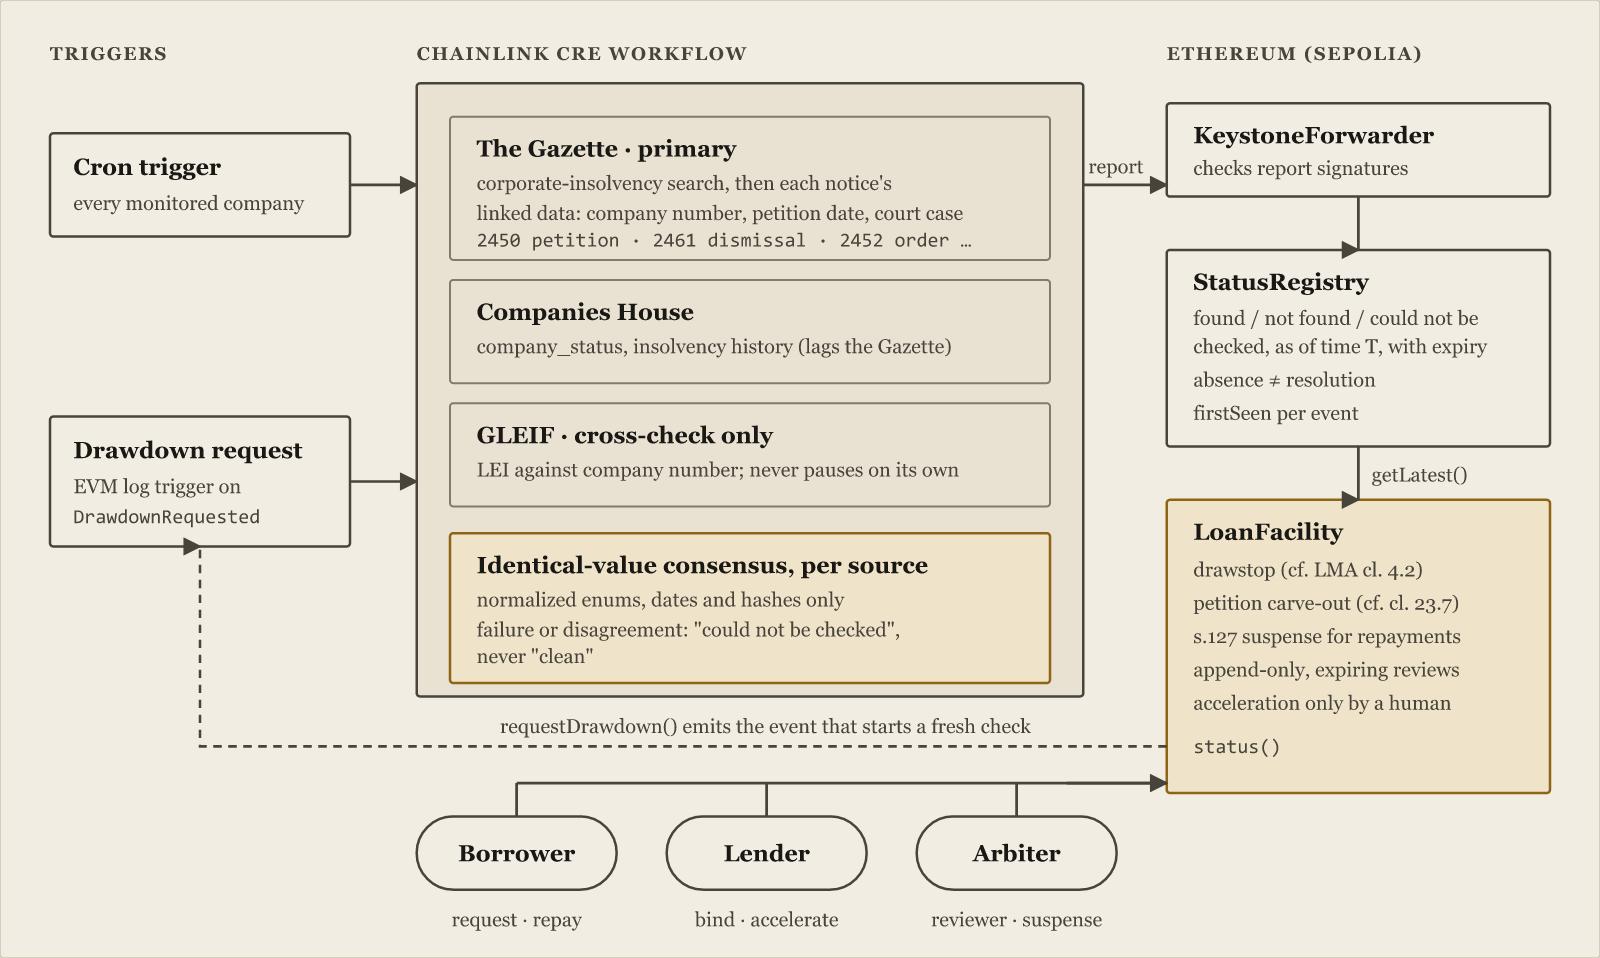
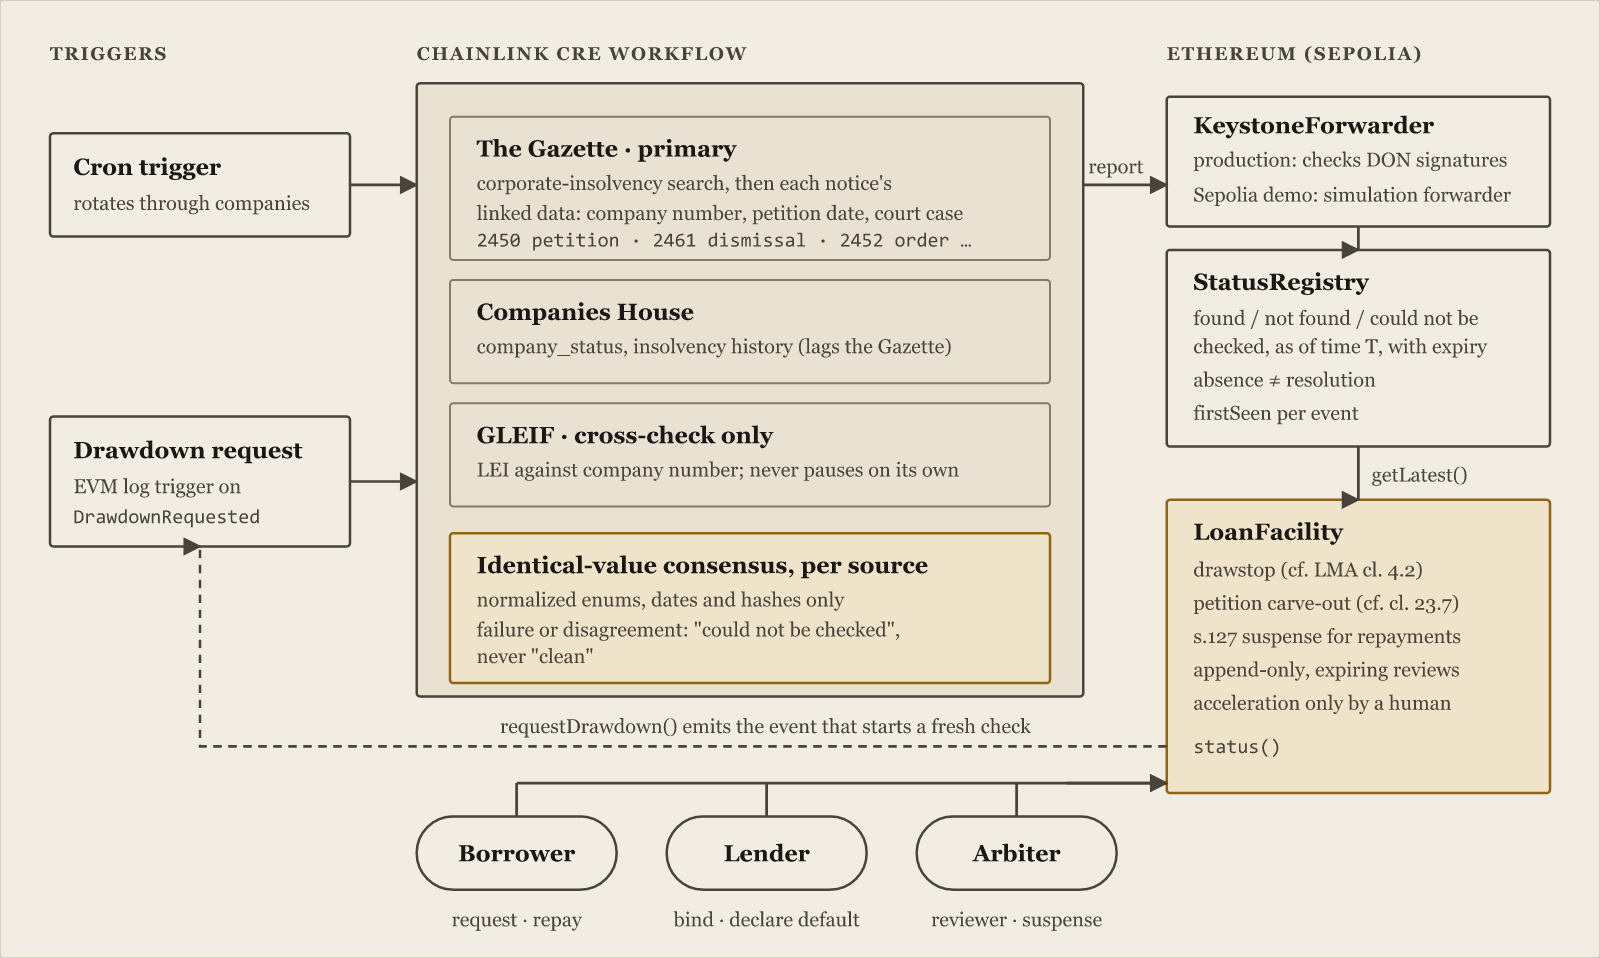
Fact-check corrections: testnet forwarder, cron rotation, mutation order, scope
An independent check found overstatements. Details, site and architecture
figure now say that the Sepolia simulation forwarder does not verify
signatures (production KeystoneForwarder does), that cron rotates through
companies, that 2 of the first 4 planted bugs slipped past the first fuzzer,
that the backtest is what a Gazette check would have shown, that the
winding-up is deemed to start at presentation, the 397/401 CE-File basis,
and the closest prior CRE projects (Covenant Sentinel, SentinelFi).

Changed region(s): [[0.7188, 0.0908, 0.9688, 0.2422], [0.4062, 0.9384, 0.5312, 0.9687], [0.0625, 0.2119, 0.1875, 0.2422]]

diff --git a/docs/index.html b/docs/index.html
@@ -15,7 +15,7 @@
 <link rel="preconnect" href="https://fonts.googleapis.com">
 <link rel="preconnect" href="https://fonts.gstatic.com" crossorigin>
 <link rel="stylesheet" href="https://fonts.googleapis.com/css2?family=IBM+Plex+Mono:wght@400;500&family=Newsreader:ital,opsz,wght@0,6..72,300..700;1,6..72,300..700&display=swap">
-<link rel="stylesheet" href="site/style.css?v=10">
+<link rel="stylesheet" href="site/style.css?v=11">
 </head>
 <body>
 
@@ -244,7 +244,7 @@
 		<div class="box">
 			<span class="kind caps">Triggers</span>
 			<h4>Schedule and request</h4>
-			<ul><li>Cron: every registered company</li><li>EVM log: a fresh check on every drawdown request</li></ul>
+			<ul><li>Cron: rotates through registered companies</li><li>EVM log: a fresh check on every drawdown request</li></ul>
 		</div>
 		<div class="arrow" aria-hidden="true"><svg viewBox="0 0 30 12"><path d="M0 6 H28 M23 1 L28 6 L23 11"/></svg></div>
 		<div class="box key">
@@ -329,7 +329,7 @@
 	<div class="tryit reveal" id="try" aria-labelledby="try-title">
 		<div class="try-head">
 			<h4 id="try-title">Try to break it</h4>
-			<p>Each button sends a real <span class="mono">eth_call</span> to the contracts deployed on Ethereum Sepolia: the network runs the contract code and returns what it would do. No wallet, nothing is signed or spent. You act as a random address, <span class="mono" id="try-you">…</span>.</p>
+			<p>Each button sends a real <span class="mono">eth_call</span> to the contracts deployed on Ethereum Sepolia: the network runs the contract code and returns what it would do. No wallet, nothing is signed or spent. Each attempt targets the contract directly; on testnet the simulation forwarder itself does not check signatures (see §7). You act as a random address, <span class="mono" id="try-you">…</span>.</p>
 		</div>
 		<ol class="attempts">
 			<li><button type="button" data-attempt="report">Write a status into the registry yourself</button><div class="out" aria-live="polite"></div></li>
@@ -337,7 +337,7 @@
 			<li><button type="button" data-attempt="arbiter">Do it as the arbiter instead</button><div class="out" aria-live="polite"></div></li>
 			<li><button type="button" data-attempt="release">Release the held money to the lender now</button><div class="out" aria-live="polite"></div></li>
 		</ol>
-		<p class="try-foot">StatusRegistry <span class="mono">0x1AE2…1245</span> and LoanFacility <span class="mono">0x9116…0ab0</span>, source-verified on Sourcify. The arbiter attempt borrows the arbiter's real address, which an <span class="mono">eth_call</span> allows without its key. <a href="https://github.com/ZhenYan1214/Drawstop/blob/main/docs/site/try.js">How each call is built ↗</a></p>
+		<p class="try-foot">StatusRegistry <span class="mono">0x1AE2…1245</span> and LoanFacility <span class="mono">0x9116…0ab0</span>, source-verified on Sourcify. Suspense is empty today (the 2,000 went to the Official Receiver stand-in on 22 October); the refusals do not depend on the balance. The arbiter attempt borrows the arbiter's real address, which an <span class="mono">eth_call</span> allows without its key. <a href="https://github.com/ZhenYan1214/Drawstop/blob/main/docs/site/try.js">How each call is built ↗</a></p>
 	</div>
 </section>
 
@@ -352,7 +352,7 @@
 	<ul class="checks reveal">
 		<li><div class="res num">42<small class="caps">pass</small></div><div><h4>Unit tests</h4><p>One scenario per test, including the real AMS timeline and nine issues found in an adversarial audit.</p></div></li>
 		<li><div class="res num">128k<small class="caps">calls</small></div><div><h4>Invariant fuzzing</h4><p>Every action in random order by every role, five properties checked after each call, against an independent reference model.</p></div></li>
-		<li><div class="res num">5 / 5<small class="caps">caught</small></div><div><h4>Mutation testing</h4><p>Five bugs planted to test the fuzzer. Two were missed at first, which is why the final suite looks the way it does.</p></div></li>
+		<li><div class="res num">5 / 5<small class="caps">caught</small></div><div><h4>Mutation testing</h4><p>Five bugs planted to test the fuzzer. Two of the first four slipped past it, which is why the final suite looks the way it does.</p></div></li>
 		<li><div class="res num">3 / 3<small class="caps">match</small></div><div><h4>Deployed = source</h4><p>Sourcify recompiled the repository and matched the creation and runtime bytecode of all three contracts.</p></div></li>
 		<li><div class="res num">24<small class="caps">pass</small></div><div><h4>Real responses</h4><p>Workflow parsers tested on recorded Gazette, Companies House and GLEIF responses.</p></div></li>
 		<li><div class="res num">Daily<small class="caps">forward test</small></div><div><h4>Evidence that keeps growing</h4><p>GitHub Actions records each day's newly advertised petitions and every petitioned company's Companies House status, timestamped in public. On 23 October, 184 of 197 (93%) still showed active.</p></div></li>
@@ -392,7 +392,7 @@
 			<li><b>“Not found” never rules out a petition</b> presented but not yet advertised. That is a limit of free open data, not of the law: 99% of England-and-Wales petitions sit in courts the CE-File search covers, a source that could be added.</li>
 			<li><b>A payment between presentation and advertisement cannot be stopped,</b> only surfaced afterwards.</li>
 			<li><b>The legal design is illustrative.</b> The draft facility terms flag what needs specialist advice. Not legal advice.</li>
-			<li><b>Test setup.</b> The CRE simulator runs consensus on one node; Sepolia writes go through the simulation forwarder; the registry owner is the test lender.</li>
+			<li><b>Test setup.</b> The CRE simulator runs consensus on one node. Sepolia writes go through the simulation forwarder, which does not check signatures, so anyone could push a report through it; production uses the KeystoneForwarder, which does. The registry owner is the test lender.</li>
 			<li><b>No user interviews yet.</b> Demand is argued from statute, case law, LMA structure and on-chain incidents.</li>
 			<li><b>One quarter of data, plus a two-week hold-out.</b> Predictions registered on 17 October held on all 5 checks for 409 October petitions. 12 Q3 notices were unretrievable. Corrected on 22 October to whole calendar days: the 30-day figure is 75%, not the 79% first published.</li>
 			<li><b>Mostly England and Wales.</b> 10% of the petitions concern Scottish or Northern Irish companies, whose rules differ; they are kept in, which makes the figures conservative (England and Wales only: 98% after 14 days).</li>
@@ -423,6 +423,6 @@
 
 <script src="site/data.js?v=8"></script>
 <script src="site/app.js?v=8"></script>
-<script src="site/try.js?v=1"></script>
+<script src="site/try.js?v=2"></script>
 </body>
 </html>

diff --git a/docs/dorahacks/DETAILS.md b/docs/dorahacks/DETAILS.md
@@ -2,22 +2,22 @@ Drawstop is a Chainlink CRE workflow that checks the public insolvency record ev
 
 ## At a glance
 
-- **Website, no install or wallet:** https://zhenyan1214.github.io/Drawstop/ . Try §2 (pick a grace window) and §5 (step through the 11 Sepolia transactions).
-- **Try to break it:** https://zhenyan1214.github.io/Drawstop/#try . Four buttons send real `eth_call`s to the deployed contracts, trying to forge a status or take the held money; each comes back refused with the contract's own reason.
+- **Website, no install or wallet:** https://zhenyan1214.github.io/Drawstop/ (§2: pick a grace window; §5: step through the 11 Sepolia transactions).
+- **Try to break it:** https://zhenyan1214.github.io/Drawstop/#try . Four buttons send real `eth_call`s to the deployed contracts, trying to write a status directly or move money held in suspense; each comes back refused with the contract's own reason. (On testnet the simulation forwarder itself does not check signatures; see Limits.)
 - **Video (3:40):** https://youtu.be/d3qod9UnwVs
 - **Code:** https://github.com/ZhenYan1214/Drawstop . No keys needed: `forge test` in `contracts/evm`, `bun test` in `status-monitor`.
 - **Contracts on Ethereum Sepolia,** source-verified on Sourcify: https://repo.sourcify.dev/11155111/0x1AE232515B9C011152335e68314f12926e4d1245
 - **Three transactions:**
-  - Live sources: the workflow records a winding-up order against a real company, AMS Facilities (SW) Ltd, while Companies House still shows it as active: https://sepolia.etherscan.io/tx/0xfd78a1e72de6589e2dd1dda06b23b19219d9811de464011d0d4e437e10f1743e
+  - Live sources: the workflow records a winding-up order against a real company, AMS Facilities (SW) Ltd, while Companies House still showed it as active (22 October): https://sepolia.etherscan.io/tx/0xfd78a1e72de6589e2dd1dda06b23b19219d9811de464011d0d4e437e10f1743e
   - A repayment made while a petition is pending is held in suspense: https://sepolia.etherscan.io/tx/0x11d9768f3f02f9a97e1d2956e3a319e041a02365bbb96c0a60634128c46a127d
-  - Two days after an Official Receiver stand-in is nominated, the held 2,000 goes to it: https://sepolia.etherscan.io/tx/0x92e216a23b9b57b38204073b746ee5b6a924032651fbaa921f59df0b6b50e327
-- The loan scenario uses a fictional borrower fed by a local mirror, in compressed time. Only the AMS and Tesco checks use live sources.
+  - After the two-day nomination delay, the held 2,000 goes to an Official Receiver stand-in: https://sepolia.etherscan.io/tx/0x92e216a23b9b57b38204073b746ee5b6a924032651fbaa921f59df0b6b50e327
+- The loan scenario uses a fictional borrower fed by a local mirror, in compressed time; only the AMS and Tesco checks use live sources.
 
 ## The problem
 
-In England and Wales, a winding-up starts on the day the petition is presented (Insolvency Act 1986 s.129(2)). If an order follows, the company's later payments are void unless a court validates them (s.127), even to a payee in good faith. But the petition reaches free open data only when The Gazette advertises it, usually weeks later.
+In England and Wales, a compulsory winding-up is deemed to start on the day the petition is presented (Insolvency Act 1986 s.129(2)). If an order follows, the company's later payments are void unless a court validates them (s.127), even to a payee in good faith. But the petition reaches free open data only when The Gazette advertises it, usually weeks later.
 
-I measured the gap: of 1,594 petitions advertised in Q3 2026, the median appeared 36 days after presentation, 94.4% after a 14-day grace window had closed. Predictions committed on 17 October held on all five checks for 409 October petitions.
+I measured the gap: of the 1,594 petitions advertised in Q3 2026 with a presentation date, the median appeared 36 days after presentation, 94.4% after a 14-day grace window had closed. Predictions committed on 17 October held on all five checks for 409 October petitions.
 
 One case: AMS Facilities (SW) Ltd's petition was presented on 11 August and advertised 49 days later. Fifteen days after its winding-up order, Companies House still listed it as active.
 
@@ -27,11 +27,11 @@ One case: AMS Facilities (SW) Ltd's petition was presented on 11 August and adve
 
 - **The one who must report is the borrower.** LMA-style facilities stop drawdowns during a Default, but the agent may assume none unless told (*Torre v RBS* [2013] EWHC 2670 (Ch)). The party that must tell it is the borrower, the one with every reason not to. Drawstop does not wait to be told.
 - **The company register does not show petitions.** In my daily forward test, 184 of 197 recently petitioned companies (93%) still showed "active" at Companies House on 23 October.
-- **On-chain, nobody freezes the account.** A bank that learns of a petition usually freezes it (practice, not law). A stablecoin wallet keeps paying token holders unless the loan contract stops it.
+- **On-chain, nobody freezes the account.** A bank that learns of a petition usually freezes it (practice, not law); a stablecoin wallet keeps paying token holders.
 
 ## Why I built this
 
-I wanted a CRE workflow that changes what a contract does, not what a dashboard shows. Chainlink's Convergence gallery had arbitration, KYC and escrow projects, but nothing reading court or company-registry events. My first version, a generic "good standing" attestation, failed under stress-testing: a lapsed LEI does not mean a company is gone, and "not found" is not "nothing there". Narrowing it to one known borrower led me to s.127, and to AMS, where a 30-day grace window closed 19 days before the petition was public.
+I wanted a CRE workflow that changes what a contract does, not what a dashboard shows. Among the Convergence projects I reviewed, I found arbitration, KYC and escrow, and covenant monitors such as Covenant Sentinel and SentinelFi, but none reading court or company-registry events. My first version, a generic "good standing" attestation, failed under stress-testing: a lapsed LEI does not mean a company is gone, and "not found" is not "nothing there". Narrowing it to one known borrower led me to s.127, and to AMS, where a 30-day grace window closed 19 days before the petition was public.
 
 ## How it works
 
@@ -39,41 +39,38 @@ I wanted a CRE workflow that changes what a contract does, not what a dashboard 
 
 ![Architecture: two triggers, three public sources with per-source consensus, a signed report to the StatusRegistry, read by the LoanFacility](https://raw.githubusercontent.com/ZhenYan1214/Drawstop/main/docs/dorahacks/png/architecture.png)
 
-1. The borrower calls `requestDrawdown`; the `DrawdownRequested` log triggers the CRE workflow. A cron trigger also cycles through every monitored company every 10 minutes.
+1. The borrower calls `requestDrawdown`; the `DrawdownRequested` log triggers the CRE workflow. A cron trigger also rotates through the monitored companies every 10 minutes.
 2. The workflow queries The Gazette (each notice matched by company number and court case), Companies House and GLEIF.
 3. Each source's normalized result passes identical-value consensus; one signed report goes to the `StatusRegistry`: as of time T, in source S, event E was found, not found, or could not be checked.
-4. `executeDrawdown` reads it. A pending petition, an order, or an attestation older than a day makes it revert.
-5. Repayments made while a petition or order is known go into suspense. A dismissal for the same court case releases them; otherwise an arbiter can send them only to the lender, the borrower, or an office-holder nominated two days earlier. Calling a default stays the lender's decision.
+4. `executeDrawdown` needs an attestation made after the request. A pending petition, an order, an unchecked source or an expired record makes it revert.
+5. Repayments made while a petition or order is known go into suspense. A dismissal for the same court case releases them to the lender. The arbiter can send them only to the lender, the borrower, or an office-holder nominated at least two days earlier. Calling a default stays the lender's decision.
 
-How this answers the problem:
-- The lender is not told → the borrower's own request triggers the check.
-- Payments after presentation may have to be returned → they are held, and an s.127 report lists every one.
-- A failed source looks like "nothing found" → it is recorded as unchecked, and a stale record blocks drawdowns.
+How this answers the problem: the borrower's own request triggers the check; payments that may have to be returned are held, and an s.127 report lists every one; a failed source is never read as "nothing found".
 
 ## Why CRE
 
 - **EVM log trigger:** the check runs because the borrower asked for money. A cron-only bot could let a drawdown run on yesterday's reading.
 - **Identical-value consensus per source:** nodes compare normalized enums, dates and case hashes. Behind one server, the registry would hold whatever that server said.
-- **Signed reports through the forwarder:** the registry accepts reports only from the forwarder, for registered companies, newer than the one it holds. Neither party's key can write a status.
+- **Signed reports through the forwarder:** the registry accepts reports only from its forwarder, for registered companies, newer than the one it holds. In production that forwarder verifies the DON's signatures; the Sepolia simulation forwarder does not (see Limits).
 
 ## Evidence
 
-- An 11-step loan scenario on Sepolia (all transactions in the README), including two refusals.
+- An 11-step loan scenario on Sepolia (all transactions in the README). A second drawdown and an early transfer were refused; the state read back afterwards confirms neither happened.
 - A live-source run on 22 October (AMS, Tesco); the evidence hashes in its CLI output match those stored on-chain.
-- Against the obvious baseline, watching Companies House: for the 487 companies wound up in Q3 whose petition was also advertised in Q3, Drawstop's Gazette check came before the first insolvency filing on the register in 99% of cases, a median 27 days earlier (86.5% across all 943, where older petitions fall outside the data).
-- 42 unit tests; an invariant test checking five properties after each of 128,000 random calls; 5 of 5 planted bugs caught; 24 workflow tests on recorded real responses.
+- Against the obvious baseline, watching Companies House: for the 487 companies wound up in Q3 whose petition was also advertised in Q3, a Gazette check would have come before the first insolvency filing on the register in 99% of cases, a median 27 days earlier (86.5% across all 943, where older petitions fall outside the data).
+- 42 unit tests; an invariant test checking five properties after each of 128,000 random calls; 5 of 5 planted bugs caught; 24 workflow tests, including parsers run on recorded real responses.
 
 ## What I got wrong
 
-- **My headline figures were too high.** Most notices carry a 00:00 timestamp, so a petition advertised on day N of an N-day window counted as late. Counting whole days, 95.2% became 94.4% (14 days) and 79.4% became 75.0% (30 days). I scored the hold-out both ways.
+- **My headline figures were too high.** With 00:00 timestamps, a petition advertised on day N of an N-day window counted as late. Counting whole days, 95.2% became 94.4% and 79.4% became 75.0%; I scored the hold-out both ways.
 - **My contract undercounted.** It reports 3,000 repaid after the second petition; the s.127 report found at least 8,000, because suspense released on the first dismissal came after the second presentation. A dismissal clears only its own petition.
-- **The fuzzer missed bugs:** 3 of 5 planted bugs at first; a reference-model invariant now catches all five.
+- **The fuzzer missed bugs:** 2 of the first 4 planted bugs slipped past it; a reference-model invariant now catches all five.
 - **The receiver would have rejected production reports.** It required exactly 62 bytes of metadata; the production forwarder sends 64.
 
 ## Limits
 
 - Simulation, not a DON: the CRE simulator runs consensus on one node, and Sepolia writes go through the simulation forwarder.
-- All wallets are mine: lender, borrower, arbiter and registry owner. The owner can change the forwarder address.
+- The Sepolia simulation forwarder does not check signatures, so anyone could push a report through it. All wallets are mine (lender, borrower, arbiter, registry owner), and the owner can change the forwarder address.
 - Drawstop is never earlier than the public record: a payment made before advertisement can only be flagged afterwards.
 - The legal design is illustrative, not legal advice. No audit, no user interviews yet.
 
@@ -81,9 +78,9 @@ How this answers the problem:
 
 - I have requested CRE deployment access. Once it is enabled: deploy to a DON with the production forwarder, and move the registry owner to a multisig.
 - One pilot: a facility agent, pool delegate or insolvency practitioner running Drawstop beside a live facility.
-- A court-filing source for the gap before advertisement (99% of England-and-Wales petitions sit in courts the CE-File search covers).
+- A court-filing source for the gap before advertisement: 397 of 401 England-and-Wales petitions advertised 1–16 October sit in courts the CE-File search covers. What a non-party can see there before advertisement is still unconfirmed.
 - Deliberately not doing: automatic default or acceleration, credit scoring, anything beyond statutory public records, and no staking or challenge game for monitors. The lender bears the loss, so the lender pays for the checks.
 
 ## About me
 
-I built Drawstop alone. I had not worked with English insolvency law before, so most of the time went into the statute, the case law and the petition data before any contract code. The forward test keeps running after submission.
+I built Drawstop alone. I had not worked with English insolvency law before, so most of the time went into the statute, the case law and the petition data before any contract code.
